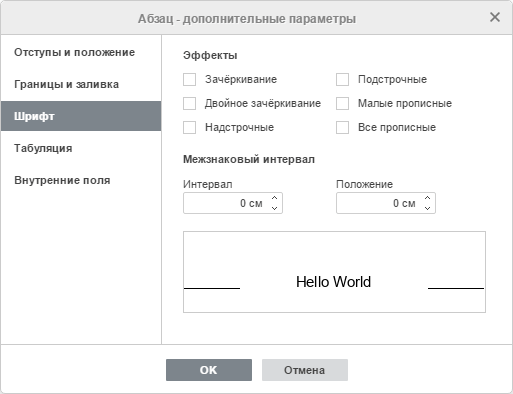
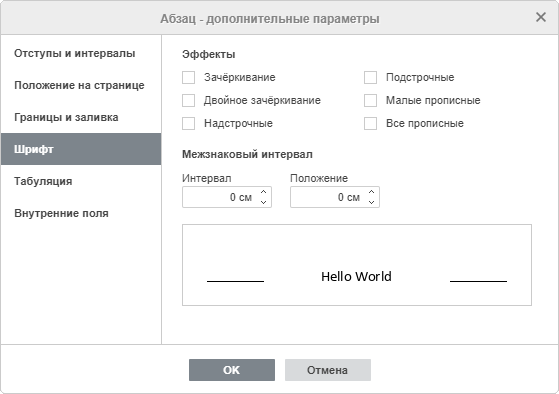
Updates to the documentation

diff --git a/OfficeWeb/apps/documenteditor/main/resources/help/ru/UsageInstructions/PageBreaks.htm b/OfficeWeb/apps/documenteditor/main/resources/help/ru/UsageInstructions/PageBreaks.htm
@@ -21,19 +21,19 @@
 			<p>Чтобы вставить разрыв страницы перед выбранным абзацем, то есть начать этот абзац в верхней части новой страницы:</p>
 			<ul>
 				<li>щелкните правой кнопкой мыши и выберите в меню пункт <b>С новой страницы</b>, или</li>
-				<li>щелкните правой кнопкой мыши, выберите в меню пункт <b>Дополнительные параметры абзаца</b> или используйте ссылку <b>Дополнительные параметры</b> на правой боковой панели, затем в открывшемся окне <b>Абзац - дополнительные параметры</b> установите флажок <b>С новой страницы</b>.</li>
+				<li>щелкните правой кнопкой мыши, выберите в меню пункт <b>Дополнительные параметры абзаца</b> или используйте ссылку <b>Дополнительные параметры</b> на правой боковой панели, затем в открывшемся окне <b>Абзац - дополнительные параметры</b> перейдите на вкладку <b>Положение на странице</b> и установите флажок <b>С новой страницы</b>.</li>
 			</ul>
 			<p>Чтобы располагать строки абзаца на одной странице и переносить на новую страницу только целые абзацы (то есть не допускать разрыва страниц между строками одного абзаца),</p>
 			<ul>
 				<li>щелкните правой кнопкой мыши и выберите в меню пункт <b>Не разрывать абзац</b> или</li>
-				<li>щелкните правой кнопкой мыши, выберите в меню пункт <b>Дополнительные параметры абзаца</b> или используйте ссылку <b>Дополнительные параметры</b> на правой боковой панели, и установите флажок <b>Не разрывать абзац</b> в открывшемся окне <b>Абзац - дополнительные параметры</b>.</li>
+				<li>щелкните правой кнопкой мыши, выберите в меню пункт <b>Дополнительные параметры абзаца</b> или используйте ссылку <b>Дополнительные параметры</b> на правой боковой панели, затем в открывшемся окне <b>Абзац - дополнительные параметры</b> перейдите на вкладку <b>Положение на странице</b> и установите флажок <b>Не разрывать абзац</b>.</li>
 			</ul>
-			<p>В окне <b>Абзац - дополнительные параметры</b> можно задать еще два параметра разбивки на страницы:</p>
+			<p>На вкладке <b>Положение на странице</b> в окне <b>Абзац - дополнительные параметры</b> можно задать еще два параметра разбивки на страницы:</p>
 			<ul>
 			    <li><b>Не отрывать от следующего</b> - используется, чтобы запретить вставку разрыва страницы между выбранным абзацем и следующим.</li>
 			    <li><b>Запрет висячих строк</b> - эта опция включена по умолчанию и используется, чтобы запретить появление одиночных первых или последних строк абзаца наверху или внизу страницы.</li>
 			</ul>
-			<p><img alt="Дополнительные параметры абзаца - Отступы и положение" src="../images/paradvsettings_indents.png" /></p>
+			<p><img alt="Дополнительные параметры абзаца - Положение на странице" src="../images/paradvsettings_breaks.png" /></p>
 		</div>
 	</body>
 </html>

diff --git a/OfficeWeb/apps/documenteditor/main/resources/help/ru/UsageInstructions/SetTabStops.htm b/OfficeWeb/apps/documenteditor/main/resources/help/ru/UsageInstructions/SetTabStops.htm
@@ -33,9 +33,9 @@
 			<img alt="Свойства абзаца - вкладка Табуляция" src="../images/paradvsettings_tab.png" />
 			<p>Можно задать следующие параметры:</p>
 			<ul>
-			    <li><b>Позиция</b> - используется, чтобы задать пользовательские позиции табуляции. Введите в этом поле нужное значение, настройте его более точно, используя кнопки со стрелками, и нажмите на кнопку <b>Задать</b>. Пользовательская позиция табуляции будет добавлена в список в расположенном ниже поле. Если ранее Вы добавили какие-то позиции табуляции при помощи линейки, все эти позиции тоже будут отображены в списке.</li>
 			    <li>Позиция табуляции <b>По умолчанию</b> имеет значение 1.25 см. Это значение можно уменьшить или увеличить, используя кнопки со стрелками или введя в поле нужное значение.</li>
-			    <li><b>Выравнивание</b> - используется, чтобы задать нужный тип выравнивания для каждой из позиций табуляции в расположенном выше списке. Выделите нужную позицию табуляции в списке, выберите опцию <b>По левому краю</b>, <b>По центру</b> или <b>По правому краю</b> из выпадающего списка и нажмите на кнопку <b>Задать</b>.</li>
+                <li><b>Позиция</b> - используется, чтобы задать пользовательские позиции табуляции. Введите в этом поле нужное значение, настройте его более точно, используя кнопки со стрелками, и нажмите на кнопку <b>Задать</b>. Пользовательская позиция табуляции будет добавлена в список в расположенном ниже поле. Если ранее Вы добавили какие-то позиции табуляции при помощи линейки, все эти позиции тоже будут отображены в списке.</li>
+                <li><b>Выравнивание</b> - используется, чтобы задать нужный тип выравнивания для каждой из позиций табуляции в расположенном выше списке. Выделите нужную позицию табуляции в списке, выберите опцию <b>По левому краю</b>, <b>По центру</b> или <b>По правому краю</b> из выпадающего списка и нажмите на кнопку <b>Задать</b>.</li>
                 <li>
                     <b>Заполнитель</b> - позволяет выбрать символ, который используется для создания заполнителя для каждой из позиций табуляции. Заполнитель - это строка символов (точек или дефисов), заполняющая пространство между позициями табуляции. Выделите нужную позицию табуляции в списке, выберите тип заполнителя из выпадающего списка и нажмите на кнопку <b>Задать</b>.
                     <p>Для удаления позиций табуляции из списка выделите позицию табуляции и нажмите кнопку <b>Удалить</b> или <b>Удалить все</b>.</p>

diff --git a/OfficeWeb/apps/documenteditor/main/resources/help/ru/UsageInstructions/SetOutlineLevel.htm b/OfficeWeb/apps/documenteditor/main/resources/help/ru/UsageInstructions/SetOutlineLevel.htm
@@ -1,0 +1,29 @@
+<!DOCTYPE html>
+<html>
+	<head>
+		<title>Настройка уровня структуры абзаца</title>
+		<meta charset="utf-8" />
+        <meta name="description" content="Настройте уровень структуры абзаца" />
+		<link type="text/css" rel="stylesheet" href="../editor.css" />
+        <script type="text/javascript" src="../callback.js"></script>
+        <script type="text/javascript" src="../search/js/page-search.js"></script>
+	</head>
+	<body>
+		<div class="mainpart">
+        <div class="search-field">
+            <input id="search" class="searchBar" placeholder="Search" type="text" onkeypress="doSearch(event)">
+        </div>
+			<h1>Настройка уровня структуры абзаца</h1>
+			
+            <p>Уровень структуры обозначает уровень абзаца в структуре документа. Доступны следующие уровни: <em>Основной текст</em>, <em>Уровень 1</em> - <em>Уровень 9</em>. Уровень структуры можно задать разными способами, например, используя <a href="../UsageInstructions/FormattingPresets.htm" onclick="onhyperlinkclick(this)">стили заголовков</a>: при назначении абзацу какого-либо стиля заголовка (<em>Заголовок 1</em> - <em>Заголовок 9</em>), абзац приобретает соответствующий уровень структуры. Если назначать уровень абзаца, используя дополнительные параметры абзаца, абзац приобретает только уровень структуры, тогда как его стиль не меняется. Уровень структуры также можно изменить на панели <a href="../UsageInstructions/CreateTableOfContents.htm#navigation" onclick="onhyperlinkclick(this)"><b>Навигация</b></a> слева, используя опции контекстного меню.</p>
+            <p>Чтобы изменить уровень структуры абзаца, используя дополнительные параметры абзаца,</p>
+            <ol>
+                <li>щелкните по тексту правой кнопкой мыши и выберите опцию <b>Дополнительные параметры абзаца</b> из контекстного меню или используйте опцию <b>Дополнительные параметры</b> на правой боковой панели,</li>
+                <li>откройте окно <b>Абзац - дополнительные параметры</b>, перейдите на вкладку <b>Отступы и интервалы</b>,</li>
+                <li>выберите нужный уровень структуры из списка <b>Уровень структуры</b>.</li>
+                <li>нажмите кнопку <b>OK</b>, чтобы применить изменения.</li>
+            </ol>
+            <p><img alt="Дополнительные параметры абзаца - Отступы и интервалы" src="../images/paradvsettings_indents.png" /></p>
+		</div>
+	</body>
+</html>

diff --git a/OfficeWeb/apps/documenteditor/main/resources/help/en/UsageInstructions/SetTabStops.htm b/OfficeWeb/apps/documenteditor/main/resources/help/en/UsageInstructions/SetTabStops.htm
@@ -29,13 +29,13 @@
 			    </li>			
 			</ol>
 			<hr />
-			<p>You can also use the paragraph properties window to adjust tab stops. Click the right mouse button, select the <b>Paragraph Advanced Settings</b> option in the menu or use the <b>Show advanced settings</b> link at the right sidebar, and switch to the <b>Tab</b> tab in the opened <b>Paragraph - Advanced Settings</b> window.</p>
-			<img alt="Paragraph Properties - Tab tab" src="../images/paradvsettings_tab.png" />
+			<p>You can also use the paragraph properties window to adjust tab stops. Click the right mouse button, select the <b>Paragraph Advanced Settings</b> option in the menu or use the <b>Show advanced settings</b> link at the right sidebar, and switch to the <b>Tabs</b> tab in the opened <b>Paragraph - Advanced Settings</b> window.</p>
+			<img alt="Paragraph Properties - Tabs tab" src="../images/paradvsettings_tab.png" />
 			<p>You can set the following parameters:</p>
 			<ul>
-			    <li><b>Tab Position</b> - is used to set custom tab stops. Enter the necessary value in this box, adjust it more precisely using the arrow buttons and press the <b>Specify</b> button. Your custom tab position will be added to the list in the field below. If you've previously added some tab stops using the ruler, all these tab positions will also be displayed in the list.</li>
 			    <li><b>Default Tab</b> is set at 1.25 cm. You can decrease or increase this value using the arrow buttons or enter the necessary one in the box.</li>
-			    <li><b>Alignment</b> - is used to set the necessary alignment type for each of the tab positions in the list above. Select the necessary tab position in the list, choose the <b>Left</b>, <b>Center</b> or <b>Right</b> option from the drop-down list and press the <b>Specify</b> button.</li>
+                <li><b>Tab Position</b> - is used to set custom tab stops. Enter the necessary value in this box, adjust it more precisely using the arrow buttons and press the <b>Specify</b> button. Your custom tab position will be added to the list in the field below. If you've previously added some tab stops using the ruler, all these tab positions will also be displayed in the list.</li>
+                <li><b>Alignment</b> - is used to set the necessary alignment type for each of the tab positions in the list above. Select the necessary tab position in the list, choose the <b>Left</b>, <b>Center</b> or <b>Right</b> option from the drop-down list and press the <b>Specify</b> button.</li>
                 <li><b>Leader</b> - allows to choose a character used to create a leader for each of the tab positions. A leader is a line of characters (dots or hyphens) that fills the space between tabs. Select the necessary tab position in the list, choose the leader type from the drop-down list and press the <b>Specify</b> button.
                     <p>To delete tab stops from the list select a tab stop and press the <b>Remove</b> or <b>Remove All</b> button.</p>
                 </li>

diff --git a/OfficeWeb/apps/documenteditor/main/resources/help/en/UsageInstructions/ChangeColorScheme.htm b/OfficeWeb/apps/documenteditor/main/resources/help/en/UsageInstructions/ChangeColorScheme.htm
@@ -15,7 +15,7 @@
         </div>
 			<h1>Change color scheme</h1>
 			<p>Color schemes are applied to the whole document. They are used to quickly change the appearance of your document, since they are define the <b>Theme Colors</b> palette for document elements (<a href="../UsageInstructions/FontTypeSizeColor.htm" onclick="onhyperlinkclick(this)">font</a>, <a href="../UsageInstructions/BackgroundColor.htm" onclick="onhyperlinkclick(this)">background</a>, <a href="../UsageInstructions/InsertTables.htm" onclick="onhyperlinkclick(this)">tables</a>, <a href="../UsageInstructions/InsertAutoshapes.htm" onclick="onhyperlinkclick(this)">autoshapes</a>, <a href="../UsageInstructions/InsertCharts.htm" onclick="onhyperlinkclick(this)">charts</a>). If you've applied some <b>Theme Colors</b> to document elements and then selected a different <b>Color Scheme</b>, the applied colors in your document change correspondingly.</p>
-			<p>To change a color scheme, click the downward arrow next to the <b>Change color scheme</b> <img alt="Change color scheme" src="../images/changecolorscheme.png" /> icon at the <b>Home</b> tab of the top toolbar and select the necessary color scheme from the available ones: <b>Office</b>, <b>Grayscale</b>, <b>Apex</b>, <b>Aspect</b>, <b>Civic</b>, <b>Concourse</b>, <b>Equity</b>, <b>Flow</b>, <b>Foundry</b>, <b>Median</b>, <b>Metro</b>, <b>Module</b>, <b>Odulent</b>, <b>Oriel</b>, <b>Origin</b>, <b>Paper</b>, <b>Solstice</b>, <b>Technic</b>, <b>Trek</b>, <b>Urban</b>, <b>Verve</b>.</p>
+			<p>To change a color scheme, click the downward arrow next to the <b>Change color scheme</b> <img alt="Change color scheme" src="../images/changecolorscheme.png" /> icon at the <b>Home</b> tab of the top toolbar and select the necessary color scheme from the available ones: <b>Office</b>, <b>Grayscale</b>, <b>Apex</b>, <b>Aspect</b>, <b>Civic</b>, <b>Concourse</b>, <b>Equity</b>, <b>Flow</b>, <b>Foundry</b>, <b>Median</b>, <b>Metro</b>, <b>Module</b>, <b>Odulent</b>, <b>Oriel</b>, <b>Origin</b>, <b>Paper</b>, <b>Solstice</b>, <b>Technic</b>, <b>Trek</b>, <b>Urban</b>, <b>Verve</b>. The selected color scheme will be highlighted in the list.</p>
 			<p><img alt="Color Schemes" src="../images/colorscheme.png" /></p>
 			<p>Once you select the preferred color scheme, you can select colors in a color palettes window that corresponds to the document element you want to apply the color to. For most of the document elements, the color palettes window can be accessed by clicking the colored box at the right sidebar when the necessary element is selected. For the font, this window can be opened using the downward arrow next to the <b>Font color</b> <img alt="Font color" src="../images/fontcolor.png" /> icon at the <b>Home</b> tab of the top toolbar. The following palettes are available:</p>
 			<p><img alt="Palette" src="../images/palette.png" /></p>

diff --git a/OfficeWeb/apps/documenteditor/main/resources/help/en/UsageInstructions/PageBreaks.htm b/OfficeWeb/apps/documenteditor/main/resources/help/en/UsageInstructions/PageBreaks.htm
@@ -20,20 +20,20 @@
             <p>To insert a page break before the selected paragraph i.e. to start this paragraph at the top of a new page:</p>
 			<ul>
 				<li>click the right mouse button and select the <b>Page break before</b> option in the menu, or</li>
-				<li>click the right mouse button, select the <b>Paragraph Advanced Settings</b> option in the menu or use the <b>Show advanced settings</b> link at the right sidebar, and check the <b>Page break before</b> box in the opened <b>Paragraph - Advanced Settings</b> window.
+				<li>click the right mouse button, select the <b>Paragraph Advanced Settings</b> option in the menu or use the <b>Show advanced settings</b> link at the right sidebar, and check the <b>Page break before</b> box at the <b>Line &amp; Page Breaks</b> tab of the opened <b>Paragraph - Advanced Settings</b> window.
 				</li>
 			</ul>
 			<p>To keep lines together so that only whole paragraphs will be moved to the new page (i.e. there will be no page break between the lines within a single paragraph),</p>
 			<ul>
 				<li>click the right mouse button and select the <b>Keep lines together</b> option in the menu, or</li>
-				<li>click the right mouse button, select the <b>Paragraph Advanced Settings</b> option in the menu or use the <b>Show advanced settings</b> link at the right sidebar, and check the <b>Keep lines together</b> box in the opened <b>Paragraph - Advanced Settings</b> window.</li>
+				<li>click the right mouse button, select the <b>Paragraph Advanced Settings</b> option in the menu or use the <b>Show advanced settings</b> link at the right sidebar, and check the <b>Keep lines together</b> box at the <b>Line &amp; Page Breaks</b> in the opened <b>Paragraph - Advanced Settings</b> window.</li>
 			</ul>
-			<p>The <b>Paragraph - Advanced Settings</b> window allows you to set two more pagination options:</p>
+			<p>The <b>Line &amp; Page Breaks</b> tab of the <b>Paragraph - Advanced Settings</b> window allows you to set two more pagination options:</p>
 			<ul>
 			    <li><b>Keep with next</b> - is used to prevent a page break between the selected paragraph and the next one.</li>
 			    <li><b>Orphan control</b> - is selected by default and used to prevent a single line of the paragraph (the first or last) from appearing at the top or bottom of the page.</li>
 			</ul>
-			<p><img alt="Paragraph Advanced Settings - Indents &amp; Placement" src="../images/paradvsettings_indents.png" /></p>
+			<p><img alt="Paragraph Advanced Settings - Line &amp; Page Breaks" src="../images/paradvsettings_breaks.png" /></p>
 		</div>
 	</body>
 </html>

diff --git a/OfficeWeb/apps/documenteditor/main/resources/help/en/UsageInstructions/SetOutlineLevel.htm b/OfficeWeb/apps/documenteditor/main/resources/help/en/UsageInstructions/SetOutlineLevel.htm
@@ -1,0 +1,29 @@
+<!DOCTYPE html>
+<html>
+	<head>
+		<title>Set up paragraph outline level</title>
+		<meta charset="utf-8" />
+        <meta name="description" content="Set up paragraph outline level" />
+		<link type="text/css" rel="stylesheet" href="../editor.css" />
+        <script type="text/javascript" src="../callback.js"></script>
+        <script type="text/javascript" src="../search/js/page-search.js"></script>
+	</head>
+	<body>
+		<div class="mainpart">
+        <div class="search-field">
+            <input id="search" class="searchBar" placeholder="Search" type="text" onkeypress="doSearch(event)">
+        </div>
+			<h1>Set up paragraph outline level</h1>
+			
+            <p>Outline level means the paragraph level in the document structure. The following levels are available: <em>Basic Text</em>, <em>Level 1</em> - <em>Level 9</em>. Outline level can be specified in different ways, for example, by using <a href="../UsageInstructions/FormattingPresets.htm" onclick="onhyperlinkclick(this)">heading styles</a>: once you assign a heading style (<em>Heading 1</em> - <em>Heading 9</em>) to a paragraph, it asquires a corresponding outline level. If you assign a level to a paragraph using the paragraph advanced settings, the paragraph asquires the structure level only while its style remains unchanged. The outline level can also be changed at the <a href="../UsageInstructions/CreateTableOfContents.htm#navigation" onclick="onhyperlinkclick(this)"><b>Navigation</b></a> panel on the left using the contextual menu options.</p>
+            <p>To change a paragraph outline level using the paragraph advanced settings,</p>
+            <ol>
+                <li>right-click the text and choose the <b>Paragraph Advanced Settings</b> option from the contextual menu or use the <b>Show advanced settings</b> option at the right sidebar,</li>
+                <li>open the <b>Paragraph - Advanced Settings</b> window, switch to the <b>Indents &amp; Spacing</b> tab,</li>
+                <li>select the necessary outline level from the <b>Outline level</b> list.</li>
+                <li>click the <b>OK</b> button to apply the changes.</li>
+            </ol>
+            <p><img alt="Paragraph Advanced Settings - Indents &amp; Spacing" src="../images/paradvsettings_indents.png" /></p>
+		</div>
+	</body>
+</html>

diff --git a/OfficeWeb/apps/documenteditor/main/resources/help/ru/UsageInstructions/ParagraphIndents.htm b/OfficeWeb/apps/documenteditor/main/resources/help/ru/UsageInstructions/ParagraphIndents.htm
@@ -19,7 +19,13 @@
 			<ol>
 				<li>установите курсор в пределах нужного абзаца, или выделите мышью несколько абзацев, или весь текст документа, нажав сочетание клавиш <b>Ctrl+A</b>,</li>
 				<li>щелкните правой кнопкой мыши и выберите из меню пункт <b>Дополнительные параметры абзаца</b> или используйте ссылку <b>Дополнительные параметры</b> на правой боковой панели,</li>
-				<li>в открывшемся окне <b>Абзац - дополнительные параметры</b> задайте нужный отступ для <b>первой строки</b> и смещение всего абзаца от <b>левого</b> и <b>правого</b> полей страницы,</li>
+				<li>в открывшемся окне <b>Абзац - дополнительные параметры</b> перейдите на вкладку <b>Отступы и интервалы</b> и настройте нужные параметры в разделе <b>Отступы</b>: 
+                    <ol>
+                        <li><b>Слева</b> - задайте смещение всего абзаца от <b>левого</b> поля страницы, указав нужное числовое значение,</li>
+                        <li><b>Справа</b> - задайте смещение всего абзаца от <b>правого</b> поля страницы, указав нужное числовое значение,</li>
+                        <li><b>Первая строка</b> - задайте отступ для <b>первой строки</b> абзаца, выбрав соответствующий пункт меню (<b></b>, <b></b>, <b></b>) и указав нужное числовое значение,</li>
+                    </ol>
+                </li>
 				<li>нажмите кнопку <b>OK</b>.
 				<p><img alt="Дополнительные параметры абзаца - Отступы и положение" src="../images/paradvsettings_indents.png" /></p>
 				</li>

diff --git a/OfficeWeb/apps/documenteditor/main/resources/help/en/UsageInstructions/ParagraphIndents.htm b/OfficeWeb/apps/documenteditor/main/resources/help/en/UsageInstructions/ParagraphIndents.htm
@@ -19,9 +19,15 @@
 			<ol>
 				<li>put the cursor within the paragraph you need, or select several paragraphs with the mouse or all the text in the document by pressing the <b>Ctrl+A</b> key combination,</li>
 				<li>click the right mouse button and select the <b>Paragraph Advanced Settings</b> option from the menu or use the <b>Show advanced settings</b> link at the right sidebar,</li>
-				<li>in the opened <b>Paragraph - Advanced Settings</b> window, set the needed indent for the <b>first line</b> and paragraph offset from the <b>left</b> and <b>right</b> sides of the page,</li>
+				<li>in the opened <b>Paragraph - Advanced Settings</b> window, switch to the <b>Indents &amp; Spacing</b> tab and set the necessary parameters in the <b>Indents</b> section: 
+                    <ol>                        
+                        <li><b>Left</b> - set the paragraph offset from the <b>left</b> side of the page specifying the necessary numeric value,</li>
+                        <li><b>Right</b> - set the paragraph offset from the <b>right</b> side of the page specifying the necessary numeric value,</li>
+                        <li><b>Special</b> - set an indent for the <b>first line</b> of the paragraph: select the corresponding menu item (<b>none</b>, <b>First line</b>, <b>Hanging</b>) and change the default numeric value specified for <b>First Line</b> or <b>Hanging</b>,</li>
+                    </ol>
+                </li>
 				<li>click the <b>OK</b> button.
-					<p><img alt="Paragraph Advanced Settings - Indents &amp; Placement" src="../images/paradvsettings_indents.png" /></p>
+					<p><img alt="Paragraph Advanced Settings - Indents &amp; Spacing" src="../images/paradvsettings_indents.png" /></p>
 				</li>
 			</ol>
 			<p>To quickly change the paragraph offset from the left side of the page, you can also use the respective icons at the <b>Home</b> tab of the top toolbar: <b>Decrease indent</b> <img alt="Decrease indent" src="../images/decreaseindent.png" /> and <b>Increase indent</b> <img alt="Increase indent" src="../images/increaseindent.png" />.</p>

diff --git a/OfficeWeb/apps/documenteditor/main/resources/help/ru/UsageInstructions/ChangeColorScheme.htm b/OfficeWeb/apps/documenteditor/main/resources/help/ru/UsageInstructions/ChangeColorScheme.htm
@@ -24,7 +24,7 @@
         Для изменения цветовой схемы щелкните по направленной вниз стрелке рядом со значком <b>Изменить цветовую схему</b> <img alt="Изменение цветовой схемы" src="../images/changecolorscheme.png" /> на вкладке <b>Главная</b> верхней панели инструментов
         и выберите нужную цветовую схему из имеющихся вариантов: <b>Стандартная</b>, <b>Оттенки серого</b>, 
         <b>Апекс</b>, <b>Аспект</b>, <b>Официальная</b>, <b>Открытая</b>, <b>Справедливость</b>, <b>Поток</b>, <b>Литейная</b>, <b>Обычная</b>, 
-        <b>Метро</b>, <b>Модульная</b>, <b>Изящная</b>, <b>Эркер</b>, <b>Начальная</b>, <b>Бумажная</b>, <b>Солнцестояние</b>, <b>Техническая</b>, <b>Трек</b>, <b>Городская</b>, <b>Яркая</b>.
+        <b>Метро</b>, <b>Модульная</b>, <b>Изящная</b>, <b>Эркер</b>, <b>Начальная</b>, <b>Бумажная</b>, <b>Солнцестояние</b>, <b>Техническая</b>, <b>Трек</b>, <b>Городская</b>, <b>Яркая</b>. Выбранная цветовая схема будет выделена в списке.
       </p>
       <p>
         <img alt="Цветовые схемы" src="../images/colorscheme.png" />

diff --git a/OfficeWeb/apps/documenteditor/main/resources/help/ru/UsageInstructions/LineSpacing.htm b/OfficeWeb/apps/documenteditor/main/resources/help/ru/UsageInstructions/LineSpacing.htm
@@ -34,6 +34,8 @@
 					</ul>
 				</li>
 			</ol>
+            <p>Эти параметры также можно найти в разделе <b>Интервал между абзацами</b> на вкладке <b>Отступы и интервалы</b> в окне <b>Абзац - Дополнительные параметры</b>. Чтобы открыть окно <b>Абзац - Дополнительные параметры</b>, щелкните по тексту правой кнопкой мыши и выберите в контекстном меню пункт <b>Дополнительные параметры абзаца</b> или используйте опцию <b>Дополнительные параметры</b> на правой боковой панели.</p>
+            <p><img alt="Дополнительные параметры абзаца - Отступы и интервалы" src="../images/paradvsettings_indents.png" /></p>
 			<p>Чтобы быстро изменить междустрочный интервал в текущем абзаце, можно также использовать значок <b>Междустрочный интервал в абзацах</b> <img alt="Междустрочный интервал в абзацах" src="../images/linespacing.png" /> на вкладке <b>Главная</b> верхней панели инструментов, выбрав нужное значение из списка: 1.0, 1.15, 1.5, 2.0, 2.5, или 3.0 строки.</p>
 		</div>
 	</body>

diff --git a/OfficeWeb/apps/documenteditor/main/resources/help/ru/UsageInstructions/AlignText.htm b/OfficeWeb/apps/documenteditor/main/resources/help/ru/UsageInstructions/AlignText.htm
@@ -27,6 +27,14 @@
 					</ul>
 				</li>
 			</ol>
+            <p>Параметры выравнивания также доступны в окне <b>Абзац - дополнительные параметры</b>.</p>
+            <ol>
+                <li>щелкните по тексту правой кнопкой мыши и выберите в контекстном меню опцию <b>Дополнительные параметры абзаца</b> или используйте опцию <b>Дополнительные параметры</b> на правой боковой панели,</li>
+                <li>откройте окно <b>Абзац - дополнительные параметры</b>, перейдите на вкладку <b>Отступы и интервалы</b>,</li>
+                <li>в списке <b>Выравнивание</b> выберите один из типов выравнивания: <b>По левому краю</b>, <b>По центру</b>, <b>По правому краю</b>, <b>По ширине</b>,</li>
+                <li>нажмите кнопку <b>OK</b>, чтобы применить изменения.</li>
+            </ol>
+            <p><img alt="Дополнительные параметры абзаца - Отступы и интервалы" src="../images/paradvsettings_indents.png" /></p>
 		</div>
 	</body>
 </html>
